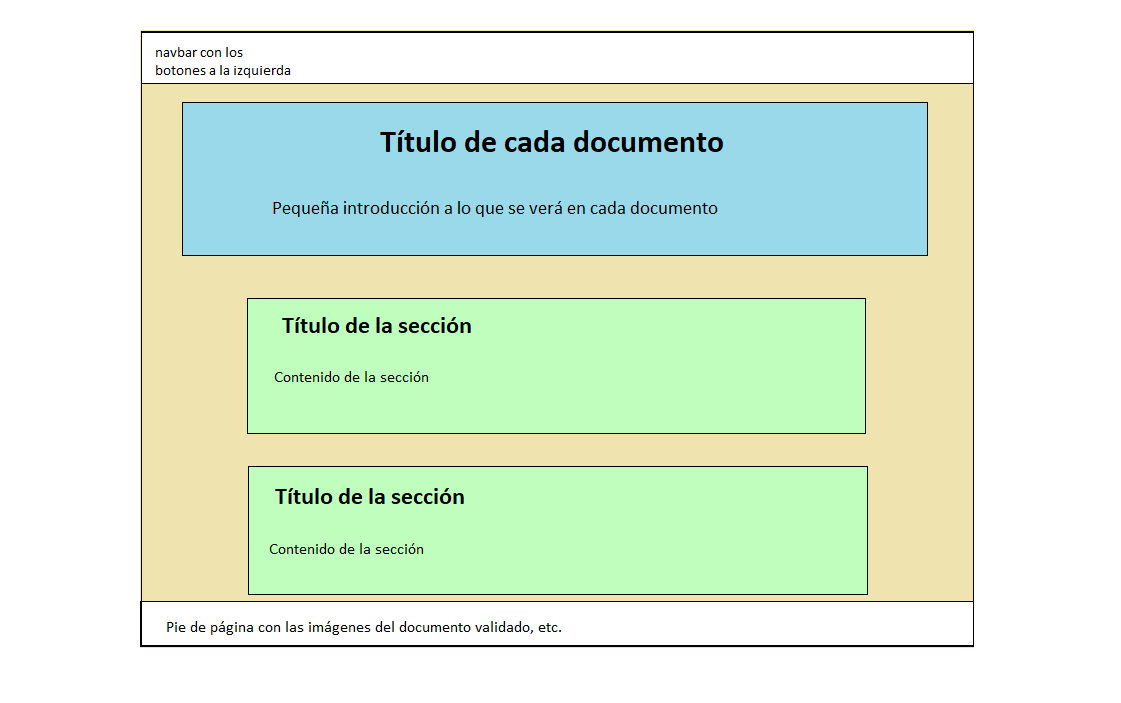
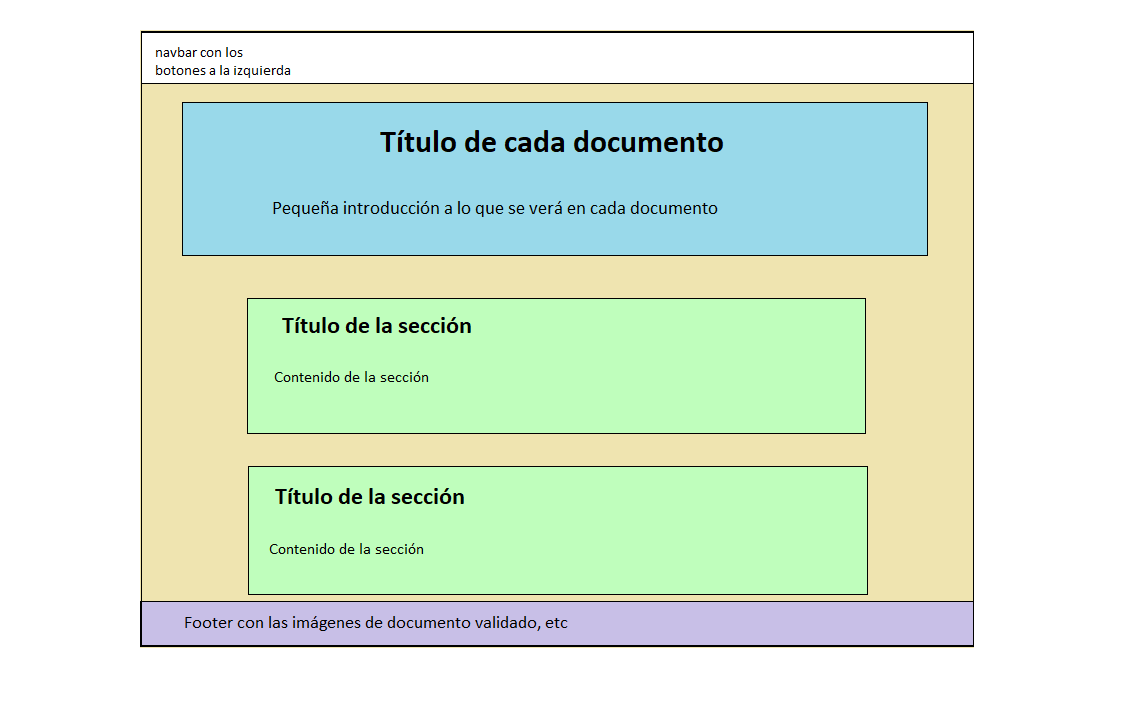
aaaaaa

Changed region(s): [[0.1249, 0.8364, 0.8742, 0.926]]

diff --git a/practica1/index.html b/practica1/index.html
@@ -24,32 +24,39 @@
 </head>
 
 <body>
+    <header>
+        <h1>Node.js</h1>
+        <p>Daniel Fernández Bernardino, Software y Estándares para la Web</p>
+    </header>
     <nav>
-        <a href="index.html">Inicio</a>
-        <a href="caracteristicas.html">Aspectos técnicos</a>
-        <a href="versiones.html">Versiones</a>
-        <a href="opiniones.html">Opiniones</a>
+        <a accesskey="I" href="index.html" tabindex="1">Inicio</a>
+        <a accesskey="A" href="caracteristicas.html">Aspectos técnicos</a>
+        <a accesskey="V" href="versiones.html">Versiones</a>
+        <a accesskey="O" href="opiniones.html">Opiniones</a>
     </nav>
     <!-- Datos con el contenidos que aparece en el navegador -->
     <main>
-    <header>
-    <h1>Node.js</h1>
+    <section>
+    <h2>Introducción</h2>
     <p><a href="https://nodejs.org/es/">Node.js</a> es un entorno de ejecución para JavaScript construido con V8, motor de JavaScript de Chrome.</p>
-    </header>
+    </section>
     
     <section>
-    <h2>¿Qué es Node.js?</h2>
-    <p>Node.js es un entorno en tiempo de ejecución multiplataforma, de código abierto, para la capa del servidor (pero no limitándose a ello) basado en el lenguaje de programación JavaScript, asíncrono, con E/S de datos en una arquitectura orientada a eventos y basado en el motor V8 de Google. Fue creado con el enfoque de ser útil en la creación de programas de red altamente escalables, como por ejemplo, servidores web.4 Fue creado por <a href="https://en.wikipedia.org/wiki/Ryan_Dahl">Ryan Dahl</a> en 2009 y su evolución está apadrinada por la empresa Joyent, que además tiene contratado a Dahl en plantilla.</p>
 
-    <p>Node.js es similar en diseño y está influenciado por sistemas como Event Machine de Ruby y Twisted de Python. Pero Node.js lleva el modelo de eventos un poco más allá. Incluye un bucle de eventos como runtime de ejecución en lugar de una biblioteca.</p>
+        <h2>¿Qué es Node.js?</h2>
+        <p>Node.js es un entorno en tiempo de ejecución multiplataforma, de código abierto, para la capa del servidor (pero no limitándose a ello) basado en el lenguaje de programación JavaScript, asíncrono, con E/S de datos en una arquitectura orientada a eventos y basado en el motor V8 de Google. Fue creado con el enfoque de ser útil en la creación de programas de red altamente escalables, como por ejemplo, servidores web.4 Fue creado por <a href="https://en.wikipedia.org/wiki/Ryan_Dahl">Ryan Dahl</a> en 2009 y su evolución está apadrinada por la empresa Joyent, que además tiene contratado a Dahl en plantilla.</p>
+        <p>Node.js es similar en diseño y está influenciado por sistemas como Event Machine de Ruby y Twisted de Python. Pero Node.js lleva el modelo de eventos un poco más allá. Incluye un bucle de eventos como runtime de ejecución en lugar de una biblioteca.</p>
+        
     </section>
-    
+
     <section>
-    <h2>Ejemplo de código: Hola Mundo</h2>
-    <p>A continuación veremos un pequeño programa "Hola Mundo" escrito en JavaScript utilizando algunas de las tecnologías de Node.js, que lo hacen una muy buena elección para grandes aplicaciones web</p>
-    <img src="multimedia/codigo1.png" alt="Programa Hola Mundo hecho siguiendo Node.js"/>
-    <p>En el fragmento de código anterior se ve como pueden atenderse muchas conexiones simultáneamente. Por cada conexión, se activa la devolución de llamada o callback, pero si no hay trabajo que hacer, Node.js se dormirá. Esto contrasta con el modelo de concurrencia más común de hoy en día, en el que se emplean hilos del Sistema Operativo. Las redes basadas en hilos son relativamente ineficientes y muy difíciles de usar.</p>
-    </section>
+        
+        <h2>Ejemplo de código: Hola Mundo</h2>
+        <p>A continuación veremos un pequeño programa "Hola Mundo" escrito en JavaScript utilizando algunas de las tecnologías de Node.js, que lo hacen una muy buena elección para grandes aplicaciones web</p>
+        <img src="multimedia/codigo1.png" alt="Programa Hola Mundo hecho siguiendo Node.js"/>
+        <p>En el fragmento de código anterior se ve como pueden atenderse muchas conexiones simultáneamente. Por cada conexión, se activa la devolución de llamada o callback, pero si no hay trabajo que hacer, Node.js se dormirá. Esto contrasta con el modelo de concurrencia más común de hoy en día, en el que se emplean hilos del Sistema Operativo. Las redes basadas en hilos son relativamente ineficientes y muy difíciles de usar.</p>
+
+</section>
 
     <footer>
         <img src="multimedia/HTML5.png" alt=" HTML5 Válido!" />

diff --git a/practica1/versiones.html b/practica1/versiones.html
@@ -37,49 +37,51 @@
     <h1>Versiones de Node.js</h1>
     <p>A continuación vemos una serie de versiones de Node.js más o menos recientes, comenzando por la 4, lanzada en 2018. Además, veremos una serie de datos relevantes de las mismas: si aún siguen teniendo soporte, la fecha de lanzamiento, etc. A destacar: solo se muestran las versiones mayores de Node.js, es decir, las versiones que suponen un gran cambio de funcionalidad, (4.x quiere decir, la versión 4 junto con todas sus subversiones, por ejemplo: 4.1.2)</p>
 </header>
+
 <section>
+    <h2>Tabla de versiones</h2>
     <table>
         <tr>
-            <th>Versión</th>
-            <th>Nombre</th>
-            <th>Fecha de lanzamiento</th>
-            <th>Soporte</th>
+            <th scope="col" id="version">Versión</th>
+            <th scope="col" id="nombre">Nombre</th>
+            <th scope="col" id="fecha">Fecha de lanzamiento</th>
+            <th scope="col" id="soporte">Soporte</th>
         </tr>
         <tr>
-            <td>4.x</td>
-            <td>Argon</td>
-            <td>08-09-2015</td>
-            <td>Sin soporte</td>
+            <th scope="row" id="v4">4.x</th>
+            <td headers="v4 nombre">Argon</td>
+            <td headers="v4 fecha">08-09-2015</td>
+            <td headers="v4 soporte">Sin soporte</td>
         </tr>
         <tr>
-            <td>6.x</td>
-            <td>Boron</td>
-            <td>26-04-2016</td>
-            <td>Sin soporte</td>
+            <th scope="row" id="v6">6.x</th>
+            <td headers="v6 nombre">Boron</td>
+            <td headers="v6 fecha">26-04-2016</td>
+            <td headers="v6 soporte">Sin soporte</td>
         </tr>
         <tr>
-            <td>8.x</td>
-            <td>Carbon</td>
-            <td>30-05-2017</td>
-            <td>Sin soporte</td>
+            <th scope="row" id="v8">8.x</th>
+            <td headers="v8 nombre">Carbon</td>
+            <td headers="v8 fecha">30-05-2017</td>
+            <td headers="v6 soporte">Sin soporte</td>
         </tr>
         <tr>
-            <td>10.x</td>
-            <td>Dubnium</td>
-            <td>24-04-2018</td>
-            <td>Mantenimiento</td>
+            <th scope="row" id="v10">10.x</th>
+            <td headers="v10 nombre">Dubnium</td>
+            <td headers="v10 fecha">24-04-2018</td>
+            <td headers="v10 soporte">Mantenimiento</td>
         </tr>
         <tr>
-            <td>12.x</td>
-            <td>Erbium</td>
-            <td>23-04-2019</td>
-            <td>Mantenimiento</td>
+            <th scope="row" id="v12">12.x</th>
+            <td headers="v12 nombre">Erbium</td>
+            <td headers="v12 fecha">23-04-2019</td>
+            <td headers="v12 soporte">Mantenimiento</td>
         </tr>
         <tr>
-            <td>14.x</td>
-            <td>Fermium</td>
-            <td>21-04-2020</td>
-            <td>Activo</td>
+            <th scope="row" id="v14">14.x</th>
+            <td headers="v14 nombre">Fermium</td>
+            <td headers="v14 fecha">21-04-2020</td>
+            <td headers="v14 soporte">Activo</td>
         </tr>
     </table>
 

diff --git a/practica1/estilo/estilo.css b/practica1/estilo/estilo.css
@@ -14,13 +14,13 @@ h1 {
   color: #000000;
   text-transform: uppercase;
   text-align: center;
-  font-size: 32;
+  font-size: 32px;
 }
 
 /* Especificidad 001*/
 h2 {
   color: #000000;
-  font-size: 20;
+  font-size: 20px;
 }
 
 /* Especificidad 001*/
@@ -32,21 +32,30 @@ section {
 /* Especificidad 002*/
 h1+p {
   font-size: large;
+  vertical-align: bottom;
 }
 
 /* Especificidad 001*/
 nav {
   background-color: #ffffff;
   padding: 1%;
-  width: 100%;
 }
 
 /* Especificidad 002*/
 nav a {
-  font-family: Tahoma, sans-serif;
   background-color: black;
   color: white;
   font-size: large;
-  padding: 1%;
-  float: left;
+}
+
+/*Especificidad 001*/
+body>header {
+  background-color: #b2e5e5;
+  border: 2px solid #717ddb;
+}
+
+/* Especificidad 001 */ 
+footer {
+  background-color: rgb(255, 192, 255);
+  border: solid 2px rgb(152, 63, 152);
 }

diff --git a/practica1/estilo/trabajo.css b/practica1/estilo/trabajo.css
@@ -1,16 +1,12 @@
 /* Daniel Fernández Bernardino*/
 /* Especificidad 001*/
-header {
-    background-color: #b2e5e5;
-    border: 2px solid #717ddb;
-    margin-bottom: 10%;
-    margin-left: 5%;
-    margin-right: 5%;
+body>header {
+    margin: 0%;
 }
 
 /* Especificidad 001*/
 h1 {
-    padding: 2em;
+    padding: 1%;
 }
 
 /* Especificidad 001*/
@@ -20,13 +16,17 @@ h2 {
 
 /* Especificidad 001 */
 section {
-    margin-left: 10%;
-    margin-right: 10%;
+    margin: 5% 10% 0%;
+}
+
+main+section {
+    margin: 0% 5% 0%;
 }
 
 /* Especificidad 003*/
 section>p+img {
     display: block;
+    width: 75%;
     margin-left: auto;
     margin-right: auto;
 }
@@ -41,4 +41,10 @@ p {
 nav {
     margin: 0%;
     padding: 0%;
+}
+
+/* Especificidad 001 */
+footer {
+    padding: 2%;
+    margin: 1% 0% 1%;
 }

diff --git a/practica1/estilo/layout.css b/practica1/estilo/layout.css
@@ -1,2 +1,41 @@
 /* Daniel Fernández Bernardino */
 
+body {
+    display: grid;
+    grid-template-columns: 1;
+    grid-template-rows: 4;
+}
+
+body>header {
+    display: grid;
+    grid-template-columns: 2;
+    grid-template-rows: 1;
+
+    grid-column:1;
+    grid-row: 1;
+}
+
+h1 {
+    grid-column: 1;
+    grid-row: 1;
+}
+
+h1 + p {
+    grid-column: 2;
+    grid-row: 1;
+}
+
+nav {
+    grid-column:1;
+    grid-row: 2;
+}
+
+main {
+    grid-column:1;
+    grid-row: 3;
+}
+
+footer {
+    grid-column:1;
+    grid-row: 4;
+}
